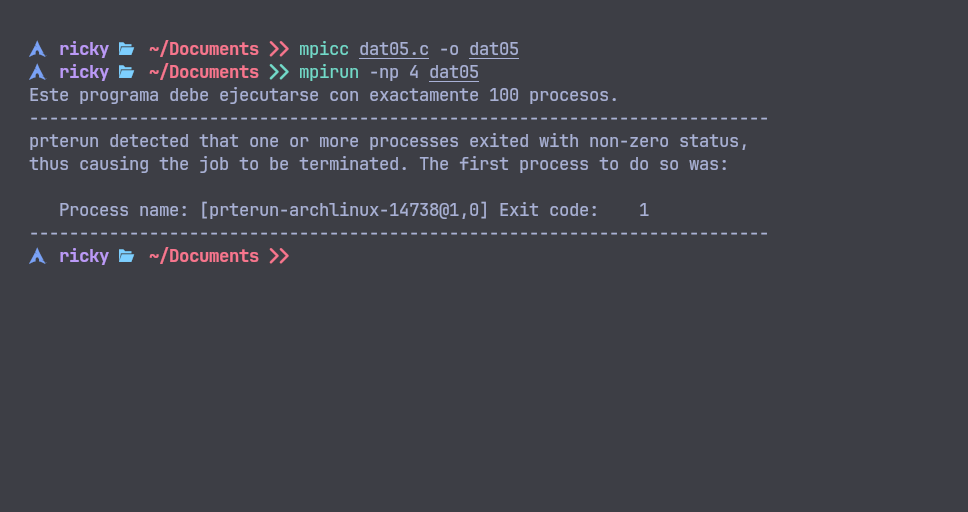
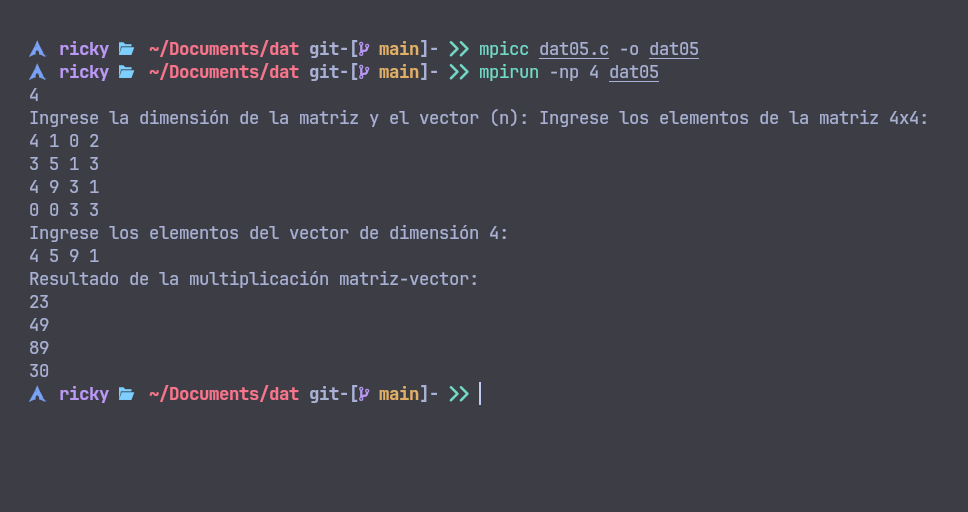
out

Changed region(s): [[0.031, 0.0625, 0.9607, 0.7812]]

diff --git a/dat05.c b/dat05.c
@@ -1,58 +1,92 @@
-#include <stdio.h>
 #include <mpi.h>
+#include <stdio.h>
+#include <stdlib.h>
 
-#define N 100
+void matrix_vector_mult(int *local_matrix, int *vector, int *local_result, int local_n, int n) {
+    for (int i = 0; i < local_n; i++) {
+        local_result[i] = 0;
+        for (int j = 0; j < n; j++) {
+            local_result[i] += local_matrix[i * n + j] * vector[j];
+        }
+    }
+}
 
-int main(int argc, char *argv[]) {
+int main(int argc, char* argv[]) {
     int rank, size;
+    int n; // Dimensión de la matriz y el vector
+    int *matrix = NULL, *vector = NULL;
+    int *local_matrix, *local_result;
+    int local_n;
+
     MPI_Init(&argc, &argv);
     MPI_Comm_rank(MPI_COMM_WORLD, &rank);
     MPI_Comm_size(MPI_COMM_WORLD, &size);
 
-    // Verificar que el número de procesos sea igual a N
-    if (size != N) {
-        if (rank == 0) {
-            printf("Este programa debe ejecutarse con exactamente %d procesos.\n", N);
-        }
-        MPI_Finalize();
-        return 1;
-    }
-
-    // Inicializar matriz y vector
-    double matrix[N][N];
-    double vector[N];
-    double result[N];
-    // Inicializar valores (omitiendo para brevedad)
-
-    // Dividir filas de la matriz y el vector entre los procesos
-    int rows_per_process = N / size;
-    double local_matrix[rows_per_process][N];
-    double local_vector[N];
-    double local_result[rows_per_process];
-
-    // Distribuir datos entre los procesos
-    MPI_Scatter(matrix, rows_per_process * N, MPI_DOUBLE, local_matrix, rows_per_process * N, MPI_DOUBLE, 0, MPI_COMM_WORLD);
-    MPI_Scatter(vector, N, MPI_DOUBLE, local_vector, N, MPI_DOUBLE, 0, MPI_COMM_WORLD);
-
-    // Realizar la multiplicación local
-    for (int i = 0; i < rows_per_process; i++) {
-        local_result[i] = 0.0;
-        for (int j = 0; j < N; j++) {
-            local_result[i] += local_matrix[i][j] * local_vector[j];
-        }
-    }
-
-    // Reunir los resultados parciales
-    MPI_Gather(local_result, rows_per_process, MPI_DOUBLE, result, rows_per_process, MPI_DOUBLE, 0, MPI_COMM_WORLD);
-
-    // El proceso 0 imprime el resultado
+    // Proceso raíz inicializa la matriz y el vector
     if (rank == 0) {
-        printf("Resultado de la multiplicación:\n");
-        for (int i = 0; i < N; i++) {
-            printf("%f ", result[i]);
+        printf("Ingrese la dimensión de la matriz y el vector (n): ");
+        scanf("%d", &n);
+
+        matrix = (int*) malloc(n * n * sizeof(int));
+        vector = (int*) malloc(n * sizeof(int));
+
+        printf("Ingrese los elementos de la matriz %dx%d:\n", n, n);
+        for (int i = 0; i < n; i++) {
+            for (int j = 0; j < n; j++) {
+                scanf("%d", &matrix[i * n + j]);
+            }
         }
-        printf("\n");
+
+        printf("Ingrese los elementos del vector de dimensión %d:\n", n);
+        for (int i = 0; i < n; i++) {
+            scanf("%d", &vector[i]);
+        }
     }
+
+    // Broadcast the dimension n to all processes
+    MPI_Bcast(&n, 1, MPI_INT, 0, MPI_COMM_WORLD);
+
+    local_n = n / size; // Asumimos que n es divisible por size
+
+    // Cada proceso recibe una parte de la matriz y el vector completo
+    local_matrix = (int*) malloc(local_n * n * sizeof(int));
+    local_result = (int*) malloc(local_n * sizeof(int));
+
+    MPI_Scatter(matrix, local_n * n, MPI_INT, local_matrix, local_n * n, MPI_INT, 0, MPI_COMM_WORLD);
+    
+    // En caso de que no se necesite en otros procesos, podemos liberar esta memoria
+    if (rank == 0) {
+        free(matrix);
+    }
+
+    if (rank != 0) {
+        vector = (int*) malloc(n * sizeof(int));
+    }
+    MPI_Bcast(vector, n, MPI_INT, 0, MPI_COMM_WORLD);
+
+    // Cada proceso realiza la multiplicación para sus filas
+    matrix_vector_mult(local_matrix, vector, local_result, local_n, n);
+
+    // Recoger los resultados en el proceso raíz
+    int *result = NULL;
+    if (rank == 0) {
+        result = (int*) malloc(n * sizeof(int));
+    }
+    MPI_Gather(local_result, local_n, MPI_INT, result, local_n, MPI_INT, 0, MPI_COMM_WORLD);
+
+    // Proceso raíz imprime el resultado
+    if (rank == 0) {
+        printf("Resultado de la multiplicación matriz-vector:\n");
+        for (int i = 0; i < n; i++) {
+            printf("%d\n", result[i]);
+        }
+        free(result);
+    }
+
+    // Liberar memoria
+    free(local_matrix);
+    free(local_result);
+    free(vector);
 
     MPI_Finalize();
     return 0;

diff --git a/README.md b/README.md
@@ -1,5 +1,6 @@
 # Dat-241
 1. En C implemente las funciones básicas (+.‐.*./); utilice punteros (Ej. Multiplicación en basea sumas, división con base en restas).
+
 **se compila:**
 
 ```bash 
